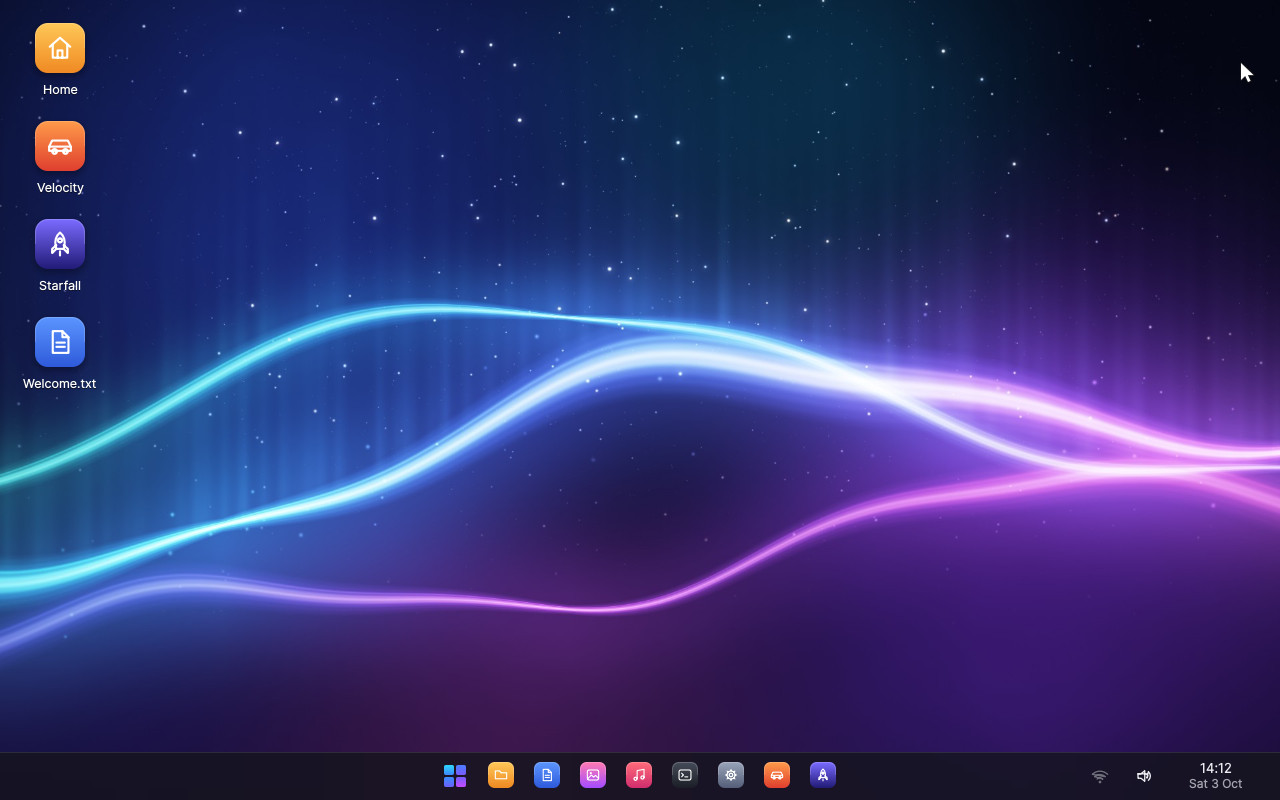
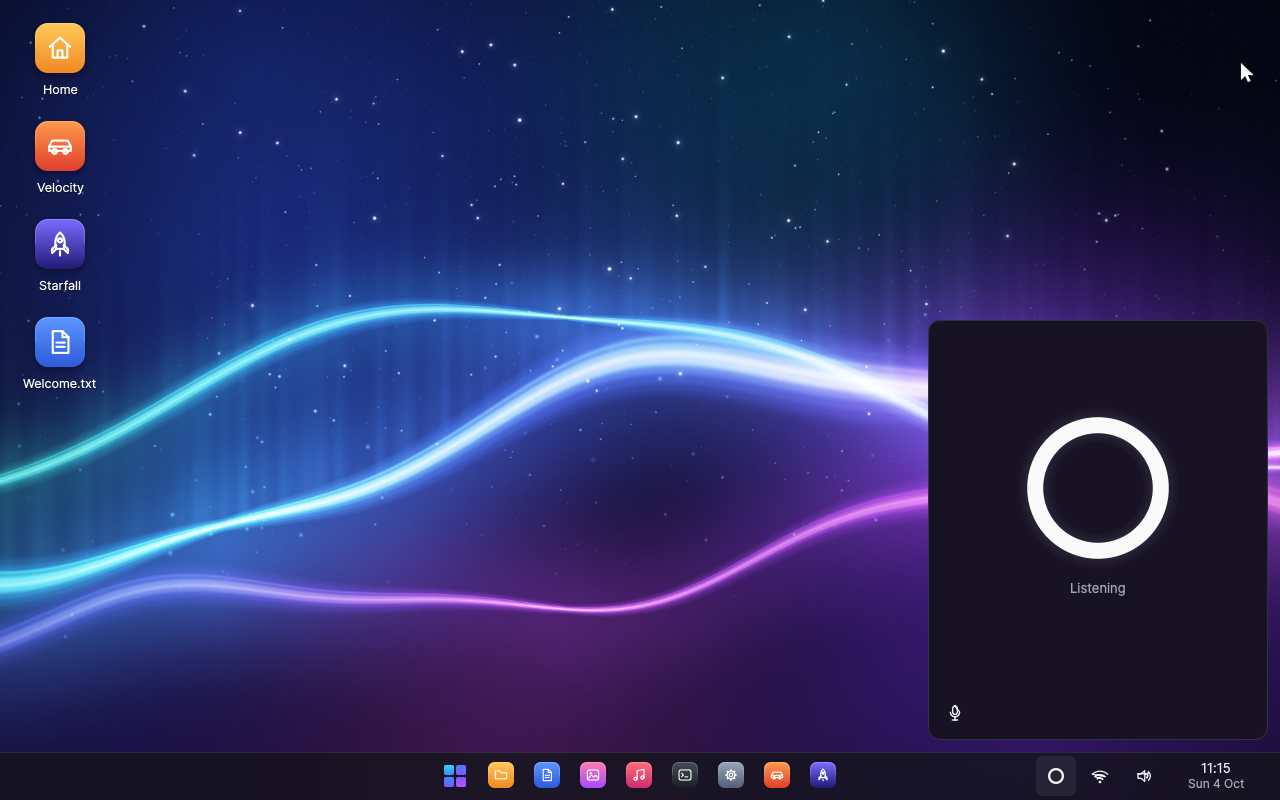
docs(readme): show the agent's window in the main picture

Changed region(s): [[0.7188, 0.375, 1.0, 1.0]]

diff --git a/xtask/src/main.rs b/xtask/src/main.rs
@@ -422,7 +422,11 @@ fn script_on(o: &Options, script: &str, system: Option<&System>) -> Result {
     }
     let agent = if automate::needs_agentsim(script) { Some(agentsim::AgentSim::start()?) } else { None };
     if let Some(a) = &agent {
-        o.cmdline = format!("{} {}", o.cmdline, a.boot_arg(!automate::agent_asleep(script))).trim().to_string();
+        // This computer is the gateway of the guest's network: QEMU's NAT,
+        // or the Wi-Fi radio's own when that is the only network.
+        let wifi_only = automate::net_mode(script)? == Some(qemu::NetMode::Wifi);
+        let host = if wifi_only { "10.0.3.2" } else { "10.0.2.2" };
+        o.cmdline = format!("{} {}", o.cmdline, a.boot_arg(host, !automate::agent_asleep(script))).trim().to_string();
     }
     for extra in automate::boot_cmdline(script) {
         o.cmdline = format!("{} {extra}", o.cmdline).trim().to_string();

diff --git a/xtask/src/agentsim.rs b/xtask/src/agentsim.rs
@@ -82,11 +82,12 @@ impl AgentSim {
         Ok(AgentSim { port, shared, next_call: 1 })
     }
 
-    /// The kernel command line arguments pointing the agent here (and,
-    /// with `wake`, starting a conversation at once).
-    pub fn boot_arg(&self, wake: bool) -> String {
+    /// The kernel command line arguments pointing the agent here, at
+    /// `host` (this computer as the guest's network sees it), and with
+    /// `wake` starting a conversation at once.
+    pub fn boot_arg(&self, host: &str, wake: bool) -> String {
         format!(
-            "agent.endpoint=ws://10.0.2.2:{0}/v1/agent/converse agent.listen=ws://10.0.2.2:{0}/v1/listen{1}",
+            "agent.endpoint=ws://{host}:{0}/v1/agent/converse agent.listen=ws://{host}:{0}/v1/listen{1}",
             self.port,
             if wake { " agent.wake" } else { "" }
         )

diff --git a/README.md b/README.md
@@ -10,7 +10,7 @@ drivers, services, toolkit, applications — is in this repository; the
 TCP/IP engine, the TLS protocol and the cryptographic primitives come from
 a few mature Rust crates (smoltcp, rustls, RustCrypto).
 
-![The Vindows desktop](docs/images/desktop.png)
+![The Vindows desktop, with the agent's window open](docs/images/desktop.png)
 
 ## Highlights
 
@@ -58,10 +58,8 @@ a few mature Rust crates (smoltcp, rustls, RustCrypto).
 
 ## Screenshots
 
-| ![The agent's window over the Text Editor, while the agent speaks](docs/images/agent.png) | ![The agent asking for consent before deleting a file](docs/images/agent-approval.png) |
-|:---:|:---:|
-| The agent wrote a shopping list and answers | It asks before deleting anything |
 | ![The Text Editor with a Rust program](docs/images/editor.png) | ![Photos with the picture library](docs/images/photos.png) |
+|:---:|:---:|
 | Text Editor | Photos |
 | ![Music](docs/images/music.png) | ![Files](docs/images/files.png) |
 | Music | Files |
@@ -69,7 +67,7 @@ a few mature Rust crates (smoltcp, rustls, RustCrypto).
 | *Velocity* | *Starfall* |
 
 All screenshots are taken in QEMU by `cargo xtask script docs/screenshots.vts`
-(the agent's by `docs/screenshots-agent.vts`, with the stand-in for Deepgram).
+(the agent talking to the stand-in for Deepgram).
 Vindows also runs in VirtualBox (see below).
 
 ## Quick start
